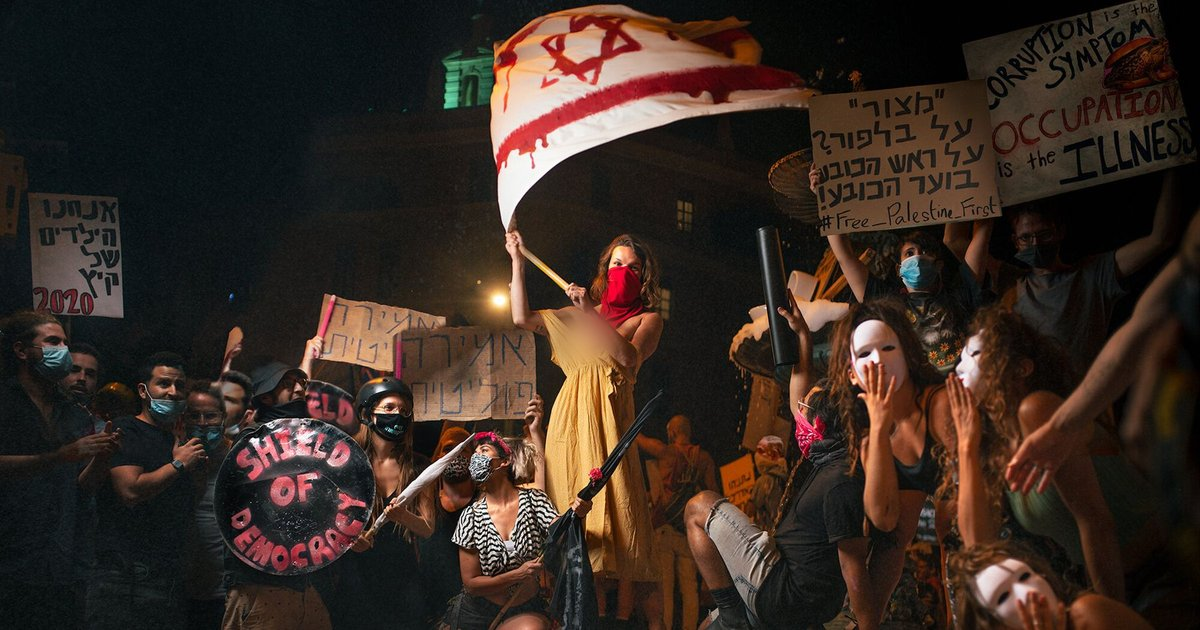
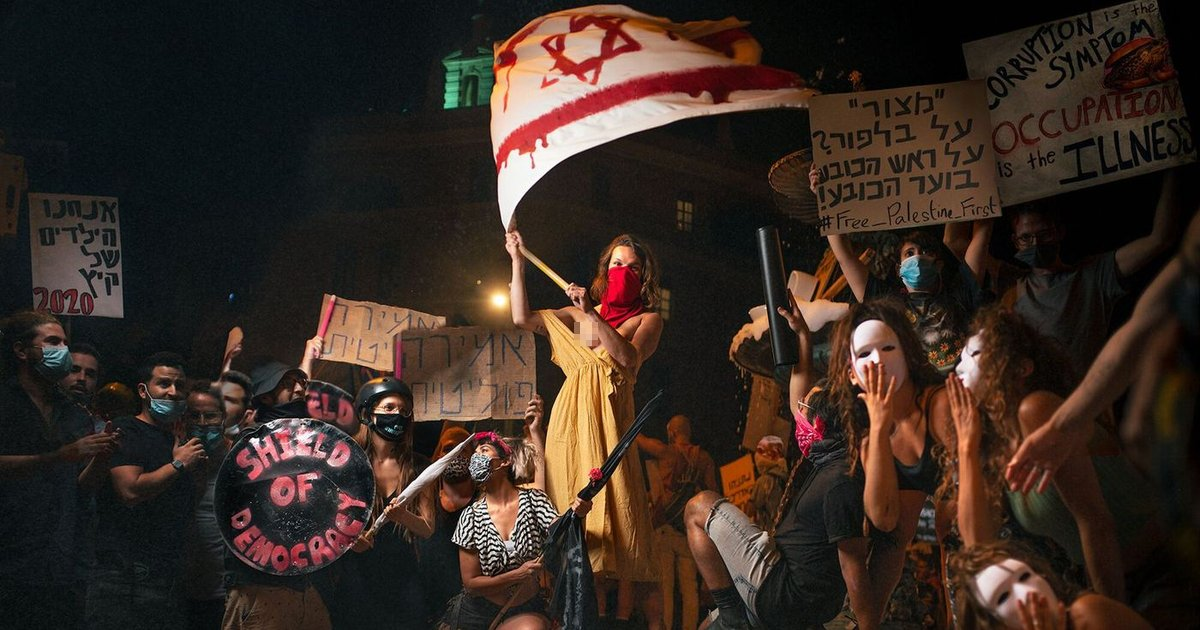
Share card: light mosaic instead of a blur; project and series previews say what's inside

Changed region(s): [[0.4625, 0.4825, 0.5242, 0.573]]

diff --git a/series.html b/series.html
@@ -2,12 +2,12 @@
 <html lang="en"><head><meta charset="utf-8"><meta name="viewport" content="width=device-width, initial-scale=1">
 <title>Series, Sharon Avraham</title>
 <!-- seo: written by tools/seo.py -->
-<meta name="description" content="A photo series by Sharon Avraham.">
+<meta name="description" content="Photo series by Sharon Avraham: the Balfour protests in Jerusalem, Every Day Heroes, Red Brigade, the Dead Sea, Auroville and dozens of portraits, each with its story.">
 <link rel="canonical" href="https://sharonavraham.com/series.html">
 <meta property="og:type" content="website">
 <meta property="og:site_name" content="Sharon Avraham">
-<meta property="og:title" content="Series, Sharon Avraham">
-<meta property="og:description" content="A photo series by Sharon Avraham.">
+<meta property="og:title" content="Photo series, Sharon Avraham: Shield of Democracy, Dead Sea, Auroville and more">
+<meta property="og:description" content="Photo series by Sharon Avraham: the Balfour protests in Jerusalem, Every Day Heroes, Red Brigade, the Dead Sea, Auroville and dozens of portraits, each with its story.">
 <meta property="og:image:alt" content="Shield of Democracy: a woman raises a flag over protesters on Balfour Street, Jerusalem, staged after Delacroix">
 <meta property="og:url" content="https://sharonavraham.com/series.html">
 <meta property="og:image" content="https://sharonavraham.com/og.jpg">

diff --git a/project.html b/project.html
@@ -2,12 +2,12 @@
 <html lang="en"><head><meta charset="utf-8"><meta name="viewport" content="width=device-width, initial-scale=1">
 <title>Project, Sharon Avraham</title>
 <!-- seo: written by tools/seo.py -->
-<meta name="description" content="A project by Sharon Avraham.">
+<meta name="description" content="Festivals, organisations, art installations and campaigns Sharon Avraham has built, gathered and told: Midburn, Fugara, David&#x27;s Farm, ELHAM, ToGather and more.">
 <link rel="canonical" href="https://sharonavraham.com/project.html">
 <meta property="og:type" content="website">
 <meta property="og:site_name" content="Sharon Avraham">
-<meta property="og:title" content="Project, Sharon Avraham">
-<meta property="og:description" content="A project by Sharon Avraham.">
+<meta property="og:title" content="Projects, Sharon Avraham: Midburn, Fugara, ToGather and more">
+<meta property="og:description" content="Festivals, organisations, art installations and campaigns Sharon Avraham has built, gathered and told: Midburn, Fugara, David&#x27;s Farm, ELHAM, ToGather and more.">
 <meta property="og:image:alt" content="Shield of Democracy: a woman raises a flag over protesters on Balfour Street, Jerusalem, staged after Delacroix">
 <meta property="og:url" content="https://sharonavraham.com/project.html">
 <meta property="og:image" content="https://sharonavraham.com/og.jpg">
